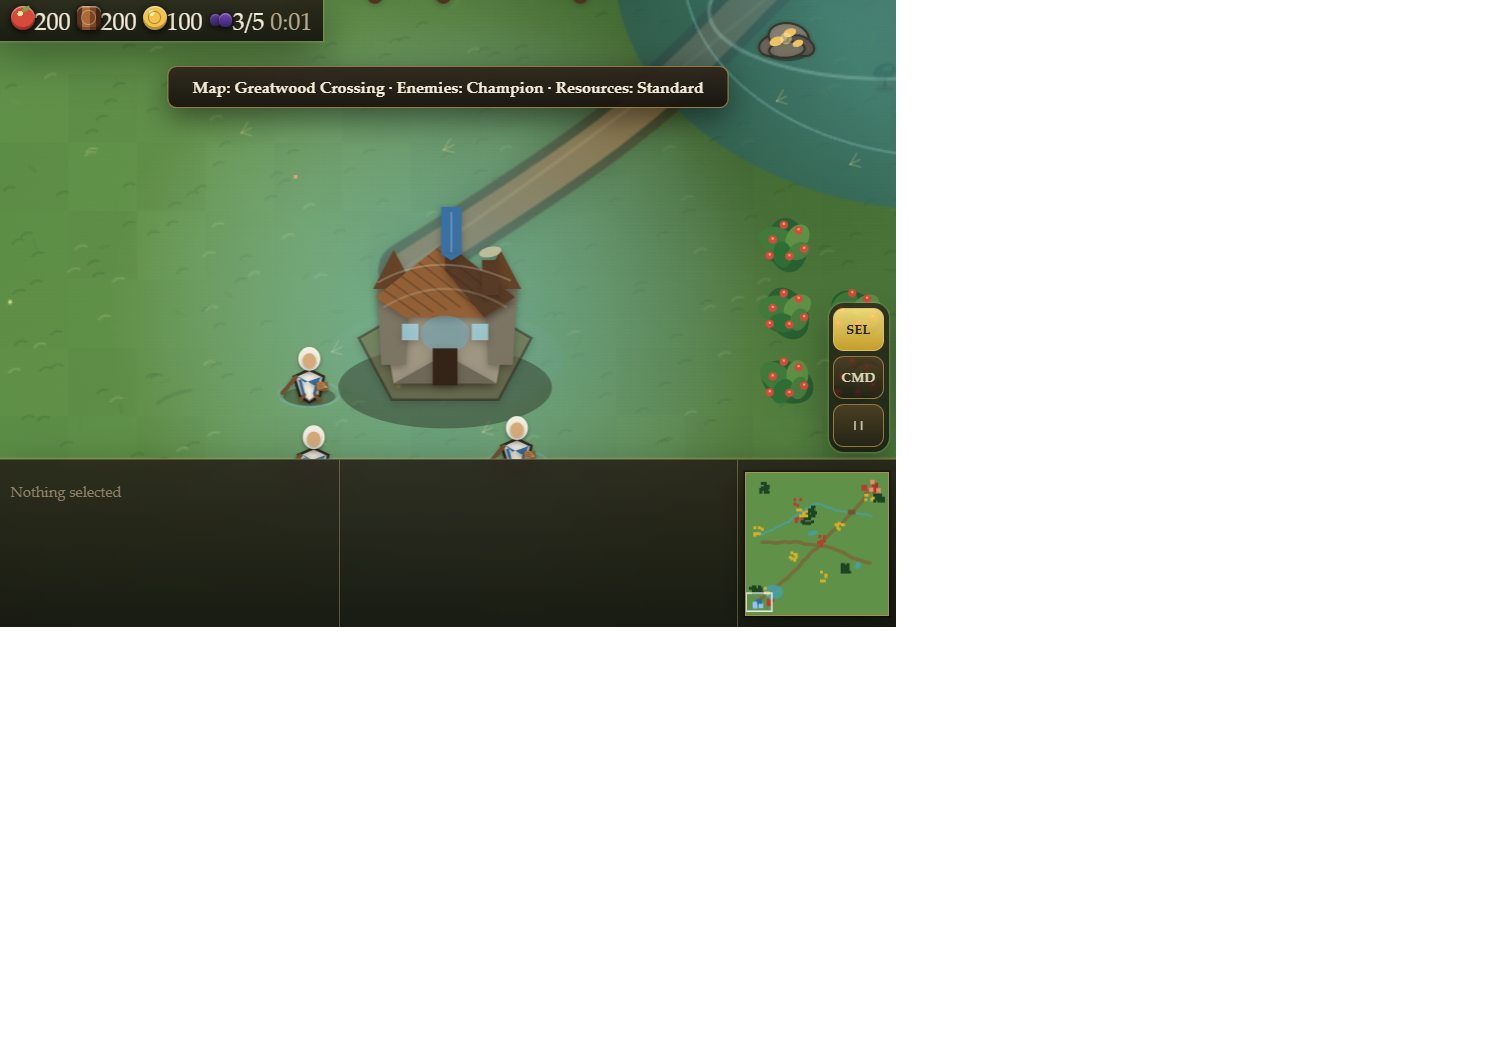
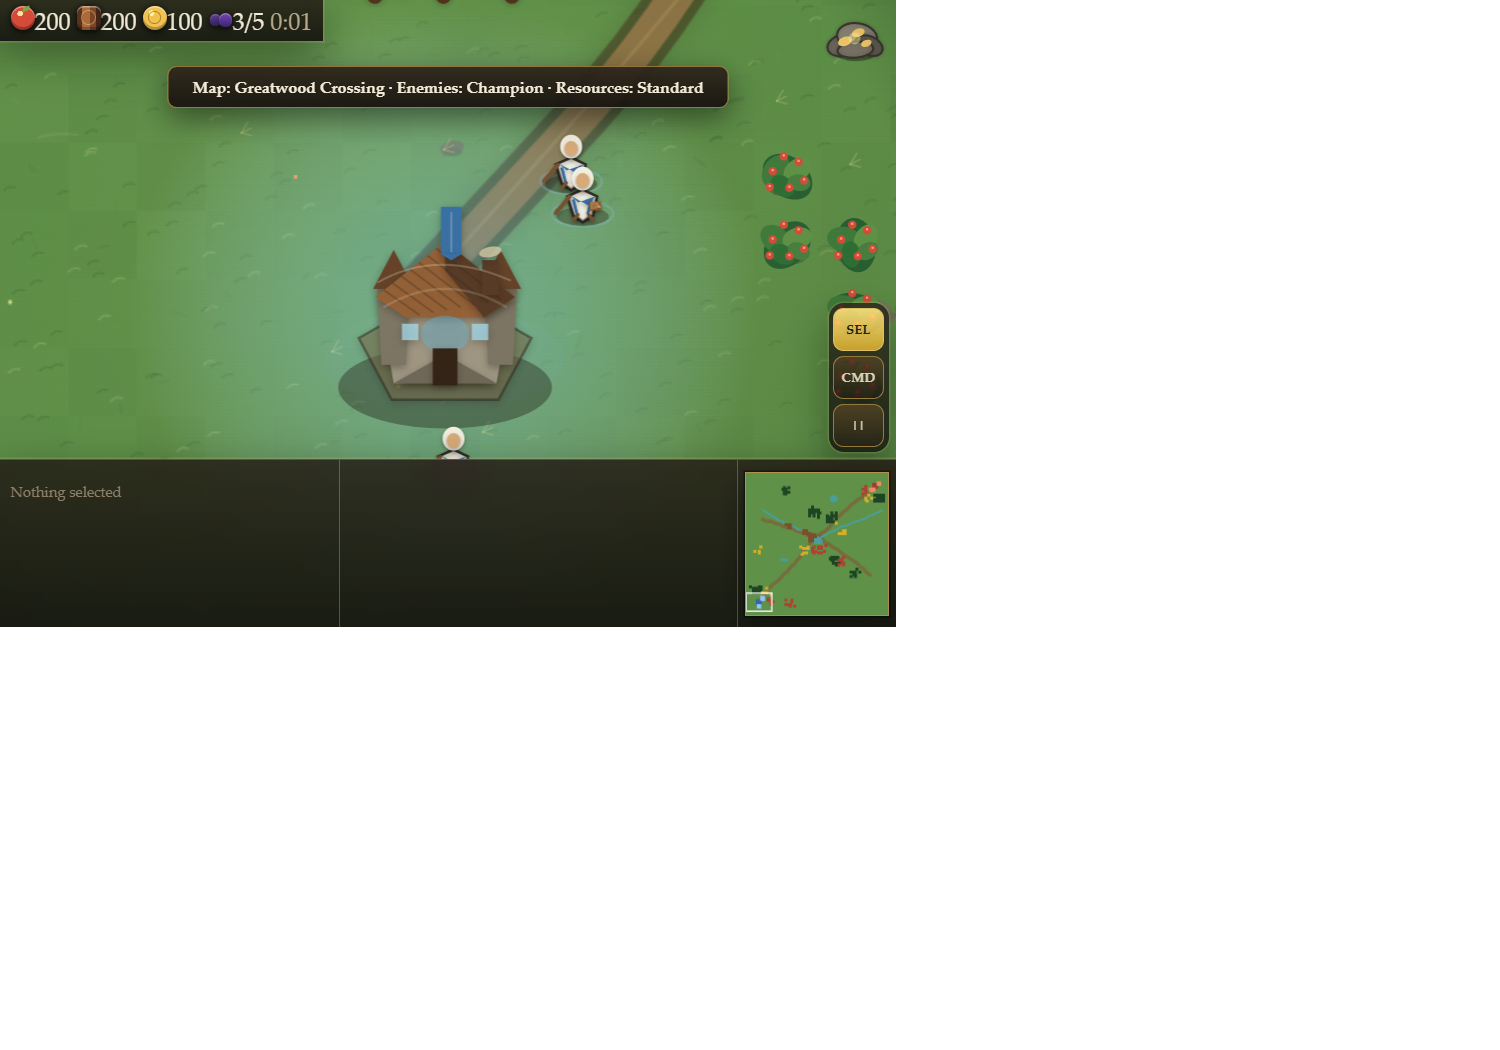
Fix water resources and compact queues

diff --git a/index.html b/index.html
@@ -91,12 +91,20 @@
   .work-grid { display:grid; grid-template-columns:1fr 1fr; gap:4px 10px; margin-top:7px; font-size:calc(12.5px * var(--ui-scale)); color:var(--muted); }
   .work-grid b { color:#eadfc8; }
   .queue-row { width:100%; display:flex; flex-direction:column; gap:4px; margin-top:2px; }
-  .action-queue { width:100%; max-width:420px; flex:1 1 320px; padding:7px 9px; border:1px solid rgba(144,108,55,.7); border-radius:6px;
+  .action-queue { width:auto; max-width:190px; flex:0 1 190px; padding:6px 7px; border:1px solid rgba(144,108,55,.7); border-radius:6px;
     background:linear-gradient(180deg, rgba(34,27,20,.9), rgba(20,16,12,.9)); box-shadow:inset 0 1px rgba(255,233,180,.08); }
-  .queue-title { margin-top:8px; color:#f2d386; font-size:calc(11px * var(--ui-scale)); font-weight:800; text-transform:uppercase; letter-spacing:.8px; }
-  .action-queue .queue-title { margin-top:0; }
-  .queue-list { display:flex; flex-direction:column; gap:5px; }
-  .queue-item { display:grid; grid-template-columns:28px 1fr; gap:7px; align-items:center; font-size:calc(12px * var(--ui-scale)); color:var(--muted); background:rgba(27,22,17,.85); border:1px solid rgba(123,90,45,.72); border-radius:5px; padding:5px 7px; }
+  .queue-title { margin-top:8px; color:#f2d386; font-size:calc(10px * var(--ui-scale)); font-weight:800; text-transform:uppercase; letter-spacing:.8px; }
+  .action-queue .queue-title { margin:0 0 4px; }
+  .queue-list { display:flex; flex-direction:row; flex-wrap:wrap; gap:5px; align-items:center; }
+  .queue-item { width:38px; height:38px; position:relative; display:flex; align-items:center; justify-content:center; padding:2px; cursor:pointer; border:1px solid rgba(123,90,45,.82); border-radius:6px; font-family:inherit;
+    color:var(--muted); background:conic-gradient(#f0c766 calc(var(--pct, 0) * 1%), rgba(27,22,17,.92) 0); box-shadow:inset 0 1px rgba(255,233,180,.12), 0 1px 5px rgba(0,0,0,.28); }
+  .queue-item::before { content:""; position:absolute; inset:3px; border-radius:4px; background:linear-gradient(180deg, rgba(41,31,22,.95), rgba(22,17,13,.96)); }
+  .queue-item:hover { border-color:#e0b263; }
+  .queue-item.queued { background:linear-gradient(180deg, rgba(48,38,29,.94), rgba(24,19,15,.96)); opacity:.82; }
+  .queue-item .queue-icon { z-index:1; }
+  .queue-pct { position:absolute; right:2px; bottom:1px; z-index:2; min-width:13px; color:#fff2bd; font:800 8px Georgia, serif; text-align:right; text-shadow:0 1px 2px #000; }
+  .queue-cancel { position:absolute; top:1px; right:3px; z-index:3; opacity:0; color:#ff8a8a; font:900 9px Georgia, serif; text-shadow:0 1px 2px #000; }
+  .queue-item:hover .queue-cancel { opacity:1; }
   .queue-icon { width:26px; height:26px; position:relative; overflow:hidden; display:flex; align-items:center; justify-content:center; border-radius:6px; color:#24190f; background:linear-gradient(#f3d87b,#bb812c); font-size:0; font-weight:900; box-shadow:inset 0 1px rgba(255,255,255,.32), 0 1px 4px rgba(0,0,0,.36); }
   .queue-icon::before, .queue-icon::after { content:""; position:absolute; display:block; }
   .queue-icon.unit-villager::before { width:9px; height:9px; top:4px; border-radius:50%; background:#f0c08a; box-shadow:0 8px 0 3px #2f6aa3; }
@@ -110,7 +118,7 @@
   .queue-icon.queue-age { font-size:8px; letter-spacing:.2px; text-transform:uppercase; }
   .queue-icon.queue-age::before { inset:4px; border:1px solid rgba(36,25,15,.55); border-radius:4px; }
   .queue-icon.queue-age::after { content:"Age"; position:relative; color:#24190f; font-size:8px; line-height:1; }
-  .queue-meta { min-width:0; }
+  .queue-meta { min-width:0; display:none; }
   .queue-name { color:#eadfc8; font-weight:800; white-space:nowrap; overflow:hidden; text-overflow:ellipsis; }
   .queue-empty { color:#81745f; font-size:calc(12px * var(--ui-scale)); padding:4px 0; }
   .qbar { height:5px; background:#130e0a; border-radius:2px; margin-top:3px; overflow:hidden; }
@@ -732,10 +740,40 @@ function placeCluster(type, cx, cy, n, reserved) {
     const tx = Math.round(cx + rand(-spread, spread));
     const ty = Math.round(cy + rand(-spread, spread));
     if (tx < 1 || ty < 1 || tx > COLS - 2 || ty > ROWS - 2) continue;
-    const i = tIdx(tx, ty);
-    if (game.nodeGrid[i] || reserved[i] || tileBlockedFor(tx, ty, 'land')) continue;
+    if (!resourceTileIsClear(tx, ty, reserved)) continue;
     createNode(type, tx, ty);
     placed++;
+  }
+}
+
+function resourceTouchesWater(tx, ty) {
+  for (let dy = -1; dy <= 1; dy++) {
+    for (let dx = -1; dx <= 1; dx++) {
+      const x = tx + dx, y = ty + dy;
+      if (!inBounds(x, y)) continue;
+      const i = tIdx(x, y);
+      if (game.water[i] && !game.bridges[i]) return true;
+    }
+  }
+  return false;
+}
+
+function resourceTileIsClear(tx, ty, reserved) {
+  if (tx < 1 || ty < 1 || tx > COLS - 2 || ty > ROWS - 2) return false;
+  const i = tIdx(tx, ty);
+  if (game.nodeGrid[i] || (reserved && reserved[i]) || game.bridges[i]) return false;
+  if (tileBlockedFor(tx, ty, 'land') || resourceTouchesWater(tx, ty)) return false;
+  return true;
+}
+
+function cleanupWaterResources() {
+  for (let i = game.nodes.length - 1; i >= 0; i--) {
+    const n = game.nodes[i];
+    if (!n.dead && (game.bridges[tIdx(n.tx, n.ty)] || resourceTouchesWater(n.tx, n.ty))) {
+      game.byId.delete(n.id);
+      game.nodeGrid[tIdx(n.tx, n.ty)] = null;
+      game.nodes.splice(i, 1);
+    }
   }
 }
 
@@ -768,13 +806,15 @@ function generateWorld() {
   for (let i = 0; i < preset.neutral.length; i++) placeProceduralCluster(preset.neutral[i], i, reserved);
   placeProceduralWilds(preset, reserved);
   if (game.options.enemyFactions > 1) {
-    placeCluster('gold', 24 + rand(-3, 3), 8 + rand(-2, 4), 5 + Math.floor(rand(0, 4)), reserved);
-    placeCluster('food', 8 + rand(-2, 4), 24 + rand(-3, 3), 5 + Math.floor(rand(0, 4)), reserved);
+    placeCluster('gold', scaleMapX(24) + rand(-3, 3), scaleMapY(8) + rand(-2, 4), 5 + Math.floor(rand(0, 4)), reserved);
+    placeCluster('food', scaleMapX(8) + rand(-2, 4), scaleMapY(24) + rand(-3, 3), 5 + Math.floor(rand(0, 4)), reserved);
   }
   if (game.options.enemyFactions > 2) {
-    placeCluster('wood', 39 + rand(-4, 2), 25 + rand(-4, 4), 12 + Math.floor(rand(0, 6)), reserved);
-    placeCluster('gold', 24 + rand(-4, 4), 39 + rand(-3, 2), 5 + Math.floor(rand(0, 4)), reserved);
+    placeCluster('wood', scaleMapX(39) + rand(-4, 2), scaleMapY(25) + rand(-4, 4), 12 + Math.floor(rand(0, 6)), reserved);
+    placeCluster('gold', scaleMapX(24) + rand(-4, 4), scaleMapY(39) + rand(-3, 2), 5 + Math.floor(rand(0, 4)), reserved);
   }
+
+  cleanupWaterResources();
 
   rebuildBlocked();
 
@@ -880,8 +920,8 @@ function makeMapDecor(tcs, preset) {
   const ruinCount = Math.round((4 + game.options.enemyFactions * 2) * resTune.decor);
   for (let i = 0; i < ruinCount; i++) {
     decor.ruins.push({
-      x: T * (8 + hash01(seed, i, 139) * 32),
-      y: T * (8 + hash01(seed, i, 149) * 32),
+      x: T * scaleMapX(8 + hash01(seed, i, 139) * 32),
+      y: T * scaleMapY(8 + hash01(seed, i, 149) * 32),
       s: 0.65 + hash01(seed, i, 151) * 0.8,
       a: (hash01(seed, i, 157) - 0.5) * 0.8,
     });
@@ -914,9 +954,9 @@ function makeMapDecor(tcs, preset) {
   }
   for (let i = 0; i < Math.round(8 * resTune.decor); i++) {
     decor.ridges.push(makeWavyPath([
-      { x: T * (5 + hash01(seed, i, 239) * 12), y: T * (6 + hash01(seed, i, 241) * 36) },
-      { x: T * (20 + hash01(seed, i, 251) * 10), y: T * (5 + hash01(seed, i, 257) * 38) },
-      { x: T * (34 + hash01(seed, i, 263) * 10), y: T * (6 + hash01(seed, i, 269) * 36) },
+      { x: T * scaleMapX(5 + hash01(seed, i, 239) * 12), y: T * scaleMapY(6 + hash01(seed, i, 241) * 36) },
+      { x: T * scaleMapX(20 + hash01(seed, i, 251) * 10), y: T * scaleMapY(5 + hash01(seed, i, 257) * 38) },
+      { x: T * scaleMapX(34 + hash01(seed, i, 263) * 10), y: T * scaleMapY(6 + hash01(seed, i, 269) * 36) },
     ], 80 + i));
   }
   return decor;
@@ -3267,7 +3307,8 @@ function buildTerrainBackdrop() {
     c.beginPath(); c.ellipse(pond.rx * 0.18, -pond.ry * 0.18, pond.rx * 0.54, pond.ry * 0.28, 0, 0, Math.PI * 2); c.stroke();
     c.restore();
   }
-  for (const stream of decor.streams) drawTerrainStream(c, stream, T * 0.18);
+  for (const stream of decor.streams) drawTerrainStream(c, stream, stream.width || T * 0.18);
+  drawBridgeDecksOn(c);
 
   for (const stone of decor.stones) {
     const x = stone.x, y = stone.y;
@@ -4047,9 +4088,9 @@ function rebuildMinimapTerrain() {
     }
     c.stroke();
   }
-  c.strokeStyle = 'rgba(64,164,187,0.78)';
-  c.lineWidth = Math.max(1, S * 0.012);
   for (const stream of decor.streams) {
+    c.strokeStyle = 'rgba(64,164,187,0.78)';
+    c.lineWidth = Math.max(1, (stream.width || T * 0.18) * sc);
     c.beginPath();
     for (let i = 0; i < stream.length; i++) {
       const x = stream[i].x * sc, y = stream[i].y * sc;
@@ -4262,6 +4303,7 @@ function buildSingleSelection(e) {
   if (e.kind === 'building' && isOwn) {
     const qEl = $('sel-queue');
     const rallyEl = $('sel-rally');
+    if (qEl) qEl.addEventListener('click', ev => handleQueueClick(e, ev));
     if (rallyEl) {
       uiUpdaters.push(() => {
         if (e.dead) return;
@@ -4349,15 +4391,40 @@ function productionQueueHtml(building) {
       : 'Advancing to ' + ageDisplayName(queueItem.targetAge);
     const pct = queueIndex === 0 ? Math.floor((1 - queueItem.remaining / queueItem.total) * 100) : 0;
     const iconClass = queueItem.kind === 'age' ? 'queue-age' : 'unit-' + queueItem.type;
-    html += '<div class="queue-item"><div class="queue-icon ' + iconClass + '" title="' + name + '"></div><div class="queue-meta"><div class="queue-name">' + name + '</div>' +
-            '<div>' + (queueIndex === 0 ? pct + '% complete' : 'Queued') + '</div><div class="qbar"><div style="width:' + pct + '%"></div></div></div></div>';
+    const label = queueIndex === 0 ? pct + '%' : String(queueIndex + 1);
+    html += '<button type="button" class="queue-item ' + (queueIndex === 0 ? 'active' : 'queued') + '" data-queue-index="' + queueIndex + '" style="--pct:' + pct + '" title="' + name + ' - click to cancel">' +
+            '<div class="queue-icon ' + iconClass + '"></div><span class="queue-pct">' + label + '</span><span class="queue-cancel">X</span></button>';
   }
   return html + '</div>';
+}
+
+function refundQueueItem(owner, item) {
+  const p = game.players[owner];
+  if (item.kind === 'unit') refundCost(p, CONFIG.UNITS[item.type].cost);
+  else if (item.kind === 'age') refundCost(p, CONFIG.AGES[item.targetAge].cost);
+}
+
+function cancelQueueItem(building, queueIndex) {
+  if (!building || building.dead || building.owner !== 0 || queueIndex < 0 || queueIndex >= building.queue.length) return false;
+  const item = building.queue.splice(queueIndex, 1)[0];
+  refundQueueItem(building.owner, item);
+  const name = item.kind === 'unit' ? unitDisplayName(item.type, building.owner) : ageDisplayName(item.targetAge);
+  notify('Canceled ' + name + ' and refunded resources', 'info');
+  game.selectionVersion++;
+  return true;
+}
+
+function handleQueueClick(building, ev) {
+  const tile = ev.target.closest && ev.target.closest('.queue-item');
+  if (!tile) return;
+  ev.preventDefault();
+  cancelQueueItem(building, parseInt(tile.dataset.queueIndex, 10));
 }
 
 function addActionQueue(building) {
   const wrap = document.createElement('div');
   wrap.className = 'action-queue';
+  wrap.addEventListener('click', ev => handleQueueClick(building, ev));
   DOM.actionsPanel.appendChild(wrap);
   uiUpdaters.push(() => {
     if (building.dead) return;

diff --git a/README.md b/README.md
@@ -6,6 +6,8 @@ Albion Skirmish is a browser-playable RTS prototype inspired by Fable: The Lost 
 
 ![In-game view](docs/screenshots/in-game.png)
 
+![Compact production queue](docs/screenshots/production-queue.png)
+
 ## Running
 
 Open [index.html](index.html) in a modern browser. The game is self-contained and does not require a build step.
@@ -16,8 +18,9 @@ Open [index.html](index.html) in a modern browser. The game is self-contained an
 - Optional PixiJS overlay loaded from CDN for richer water/atmosphere effects while the Canvas renderer remains the fallback.
 - Larger 72 x 72 tile battlefield with generated streams, ponds, bridges, and water-aware pathfinding.
 - Land units cannot cross deep water except at bridges; larger bodies of water require ferries from an Albion Dock.
+- Resource placement rejects water and shoreline-overlap tiles, so nodes no longer spawn inside visible water.
 - Guild Apprentices wear white/gray hooded robes with blue accents and brown leather boots.
-- Production buildings show icon-based unit queues when selected.
+- Production buildings show compact square queue tiles with progress and click-to-cancel refunds.
 - Blacksmith forging upgrades weapons and armor for military units, with visible equipment overlays and stat changes.
 - Animated vector sprites with walk bob, leg stride, attack swing, ferry wake, and cargo pips.
 
@@ -27,6 +30,7 @@ Screenshots are generated from the current local build and stored in [docs/scree
 
 - [Start menu](docs/screenshots/start-menu.png)
 - [In-game view](docs/screenshots/in-game.png)
+- [Compact production queue](docs/screenshots/production-queue.png)
 
 ## Notes
 

diff --git a/docs/implementation-notes.md b/docs/implementation-notes.md
@@ -14,6 +14,8 @@ This checkpoint added framework support, gameplay systems, screenshots, and docu
 
 - The map is now 72 x 72 tiles.
 - Generated water is tracked in a tile grid separate from static blockers.
+- Visible stream width now uses the same generated width as the movement water grid.
+- Resource placement rejects tiles that touch unbridged water or bridges, and generation prunes any remaining overlaps before play starts.
 - Land units treat unbridged water as impassable.
 - Ferry units treat water as passable and bridges/land as blocked.
 - Trail-water intersections create bridge tiles, and large ponds remain ferry-relevant.
@@ -28,6 +30,13 @@ This checkpoint added framework support, gameplay systems, screenshots, and docu
 - Armor upgrades increase military max HP and update existing units.
 - Military sprites show equipment overlays after forging.
 
+## Production Queue
+
+- Production queues are compact square tiles rather than full-width rows.
+- The active queue tile shows percentage progress with a conic progress ring.
+- Queued items show their queue position.
+- Clicking a queue tile cancels that item and refunds its cost.
+
 ## Validation
 
-Validated with a headless browser DOM load check against [index.html](../index.html) and regenerated screenshots with Playwright.
+Validated with a headless browser DOM load check against [index.html](../index.html), an in-page generation audit confirming zero resources touching unbridged water, a queue cancel/refund audit, and regenerated screenshots with Playwright.

diff --git a/docs/screenshots/README.md b/docs/screenshots/README.md
@@ -4,5 +4,6 @@ Generated screenshots for the current Albion Skirmish build.
 
 - `start-menu.png`: launch screen and game options.
 - `in-game.png`: live match view with HUD, minimap, terrain, units, and current rendering stack.
+- `production-queue.png`: selected Guild Hall with compact progress queue tiles and cancel affordance.
 
 Regenerate with Playwright or the integrated browser whenever visual systems change.
